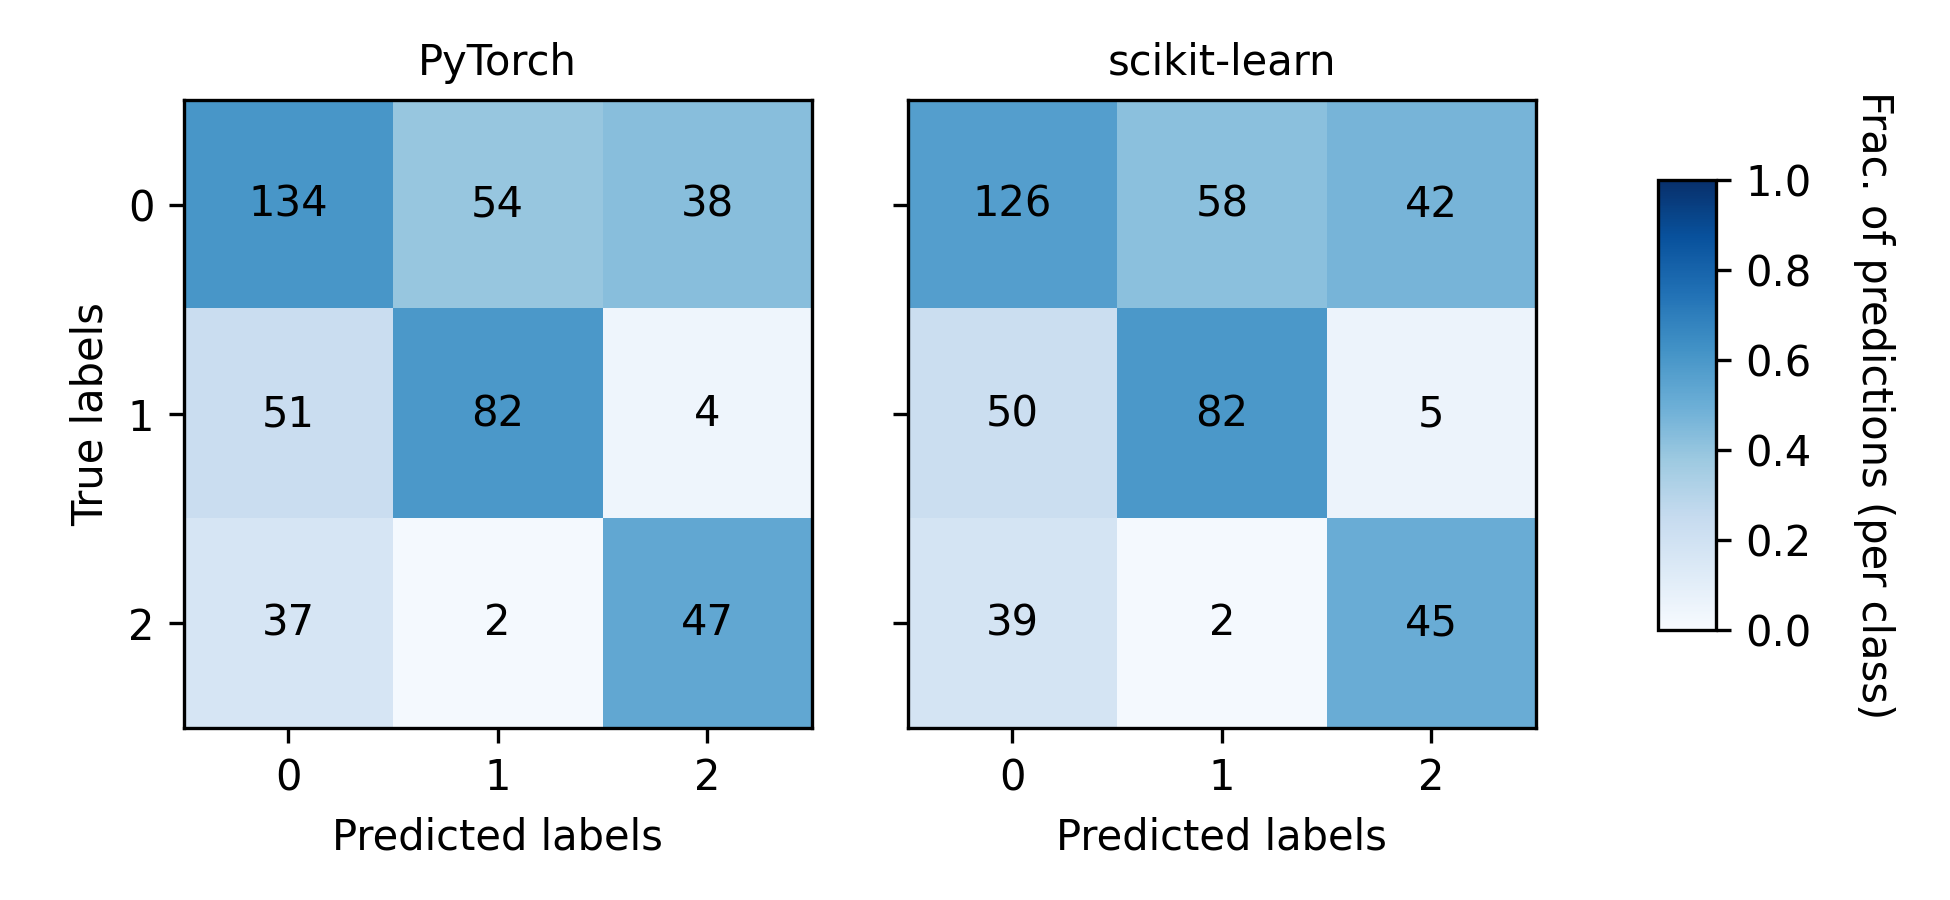
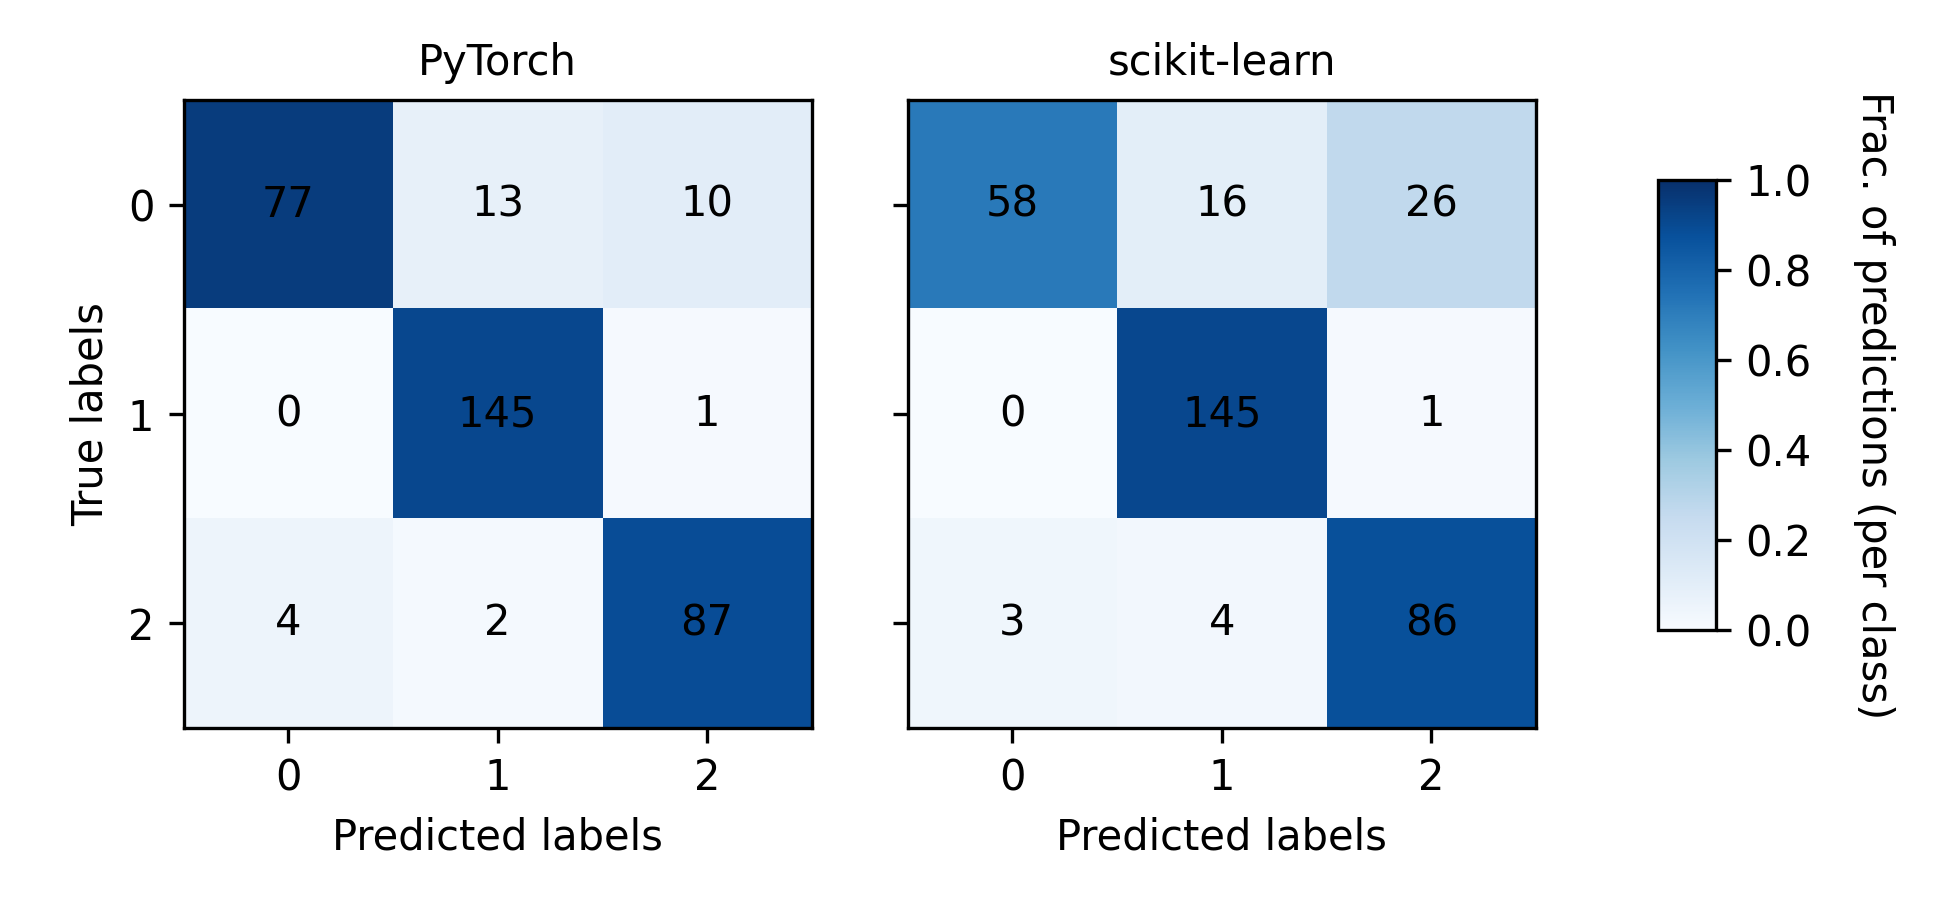
Fixed bug in the load_mlati function and refactored the classification demo

diff --git a/sdpy/data.py b/sdpy/data.py
@@ -75,24 +75,30 @@ def _estimate_recording_epoch(
 
 def load_mlati(
     filename,
-    x_binsize=0.05,
-    x_bincounts=(6, 0),
+    X_binsize=0.01,
+    X_bincounts=(20, 20),
     y_binsize=0.002,
     y_bincounts=(25, 45),
-    p_max=0.05,
-    fr_min=0.2,
-    spike_timestamps=None,
+    p_max=1e-3,
+    fr_min=1,
+    standardize_firing_rate=True,
+    add_null_events=True,
+    resample_spike_timestamps=False,
+    shuffle_labels=False,
+    random_seed=42,
     ):
     """
     """
+
+    #
+    np.random.seed(random_seed)
 
     # Load all the required datasets from the h5 file
     with h5py.File(filename, 'r') as stream:
         eye_position = np.array(stream['pose/filtered'])[:, 0]
         n_frames_recorded = len(eye_position)
         frame_timestamps = np.array(stream['frames/left/timestamps'])[:n_frames_recorded]
-        if spike_timestamps is None:
-            spike_timestamps = np.array(stream[f'spikes/timestamps'])
+        spike_timestamps = np.array(stream[f'spikes/timestamps'])
         spike_clusters = np.array(stream[f'spikes/clusters'])
         p_values = np.vstack([
             np.array(stream['zeta/saccade/nasal/p']),
@@ -101,27 +107,58 @@ def load_mlati(
         saccade_timestamps = np.array(stream['saccades/predicted/left/timestamps'])
         saccade_labels = np.array(stream['saccades/predicted/left/labels'])
 
-    # NOTE: Sometimes there are different numbers of frames and timestamps which will preclude this analysis
+    # For some experiments there are different numbers of frames and timestamps which will preclude further processing
     if frame_timestamps.size != eye_position.size:
-        raise Exception(f'Different number of frames ({eye_position.size}) and timestamps ({frame_timestamps.size})')
+        raise Exception(f'Different number of frames ({eye_position.size}) and frame timestamps ({frame_timestamps.size})')
+    
+    # Drop saccades without timestamps
+    invalid_saccades = np.isnan(saccade_timestamps[:, 0])
+    saccade_labels = np.delete(saccade_labels, invalid_saccades)
+    saccade_timestamps = np.delete(saccade_timestamps[:, 0], invalid_saccades)
+
+    # Resample spike timestamps using a uniform distribution (optional)
+    if resample_spike_timestamps == True:
+        spike_timestamps = np.around(np.random.uniform(
+            low=spike_timestamps.min(),
+            high=spike_timestamps.max(),
+            size=spike_timestamps.size
+        ), 3).astype(spike_timestamps.dtype)
+
+    # Mix in "null" events (optional)
+    if add_null_events:
+        n_null_events = round(np.mean([np.sum(saccade_labels == -1), np.sum(saccade_labels ==1)]))
+        null_event_timestamps = np.random.uniform(
+            low=saccade_timestamps.min(),
+            high=saccade_timestamps.max(),
+            size=n_null_events
+        )
+        event_timestamps = np.concatenate([
+            saccade_timestamps,
+            null_event_timestamps
+        ])
+    else:
+        event_timestamps = saccade_timestamps
+    
+    # Re-code temporal saccades as 2 (instead of -1)
+    z = np.concatenate([
+        saccade_labels,
+        np.zeros(n_null_events)
+    ])
+    z[z == -1] = 2
+
+    # Sort by time
+    index = np.argsort(event_timestamps)
+    event_timestamps = event_timestamps[index]
+    z = z[index]
+
+    # Shuffle saccade labels (optional)
+    if shuffle_labels:
+        np.random.shuffle(z)
 
     # Create the eye position time series
     t_raw = frame_timestamps[:-1] + (np.diff(frame_timestamps) / 2)
     v_raw = np.diff(eye_position)
     v_raw[np.isnan(v_raw)] = np.interp(t_raw[np.isnan(v_raw)], t_raw, v_raw) # Impute with interpolation
-
-    #
-    event_timestamps = np.concatenate([
-        saccade_timestamps[:, 0],
-        saccade_timestamps[:-1, 0] + (np.diff(saccade_timestamps[:, 0]) / 2)
-    ])
-
-    #
-    z = np.concatenate([
-        saccade_labels,
-        np.zeros(saccade_timestamps.size - 1)
-    ])
-    z[z == -1] = 2
 
     # Collect the eye velocity waveforms for saccades 
     y = list()
@@ -143,7 +180,7 @@ def load_mlati(
         cluster_indices = np.arange(len(unique_clusters))[p_values <= p_max]
         target_clusters = unique_clusters[cluster_indices] 
 
-    # Exclude units with too low of a firing rate (probabily partial units)
+    # Exclude units with too low of a firing rate
     if fr_min is not None:
         unit_indices = list()
         for i_unit, target_cluster in enumerate(target_clusters):
@@ -154,21 +191,23 @@ def load_mlati(
                 pad=5   
             )
             spike_indices = np.where(spike_clusters == target_cluster)[0]
-            n_bins = int((t2 - t1) / x_binsize)
+            n_bins = int((t2 - t1) / X_binsize)
             n_spikes, bin_edges_ = np.histogram(
                 spike_timestamps[spike_indices],
                 range=(t1, t2),
                 bins=n_bins
             )
-            fr = n_spikes.mean() / x_binsize
-            if fr < fr_min:
+            fr = n_spikes / X_binsize
+            
+            #
+            if fr.mean() < fr_min:
                 unit_indices.append(i_unit)
         target_clusters = np.delete(target_clusters, unit_indices)
 
     # Compute the edges of the time bins centered on the saccade
-    left_edges = np.arange(-1 * x_bincounts[0], x_bincounts[1], 1)
+    left_edges = np.arange(-1 * X_bincounts[0], X_bincounts[1], 1)
     right_edges = left_edges + 1
-    all_edges = np.concatenate([left_edges, [right_edges[-1],]])
+    all_edges = np.concatenate([left_edges, [right_edges[-1],]]) * X_binsize
 
     # Compute histograms and store in response matrix of shape N units x M saccades x P time bins
     n_units = len(target_clusters)
@@ -183,12 +222,12 @@ def load_mlati(
                 spike_timestamps[spike_indices],
                 bins=np.around(all_edges + event_timestamp, 3)
             )
-            fr = n_spikes / x_binsize
+            fr = n_spikes / X_binsize
             sample.append(fr)
         R.append(sample)
     R = np.array(R)
 
-    # Populate response matrix
+    # Populate X (unit major)
     X = list()
     n_units, n_events, n_bins = R.shape
     for i_event in range(n_events):
@@ -199,14 +238,18 @@ def load_mlati(
         X.append(sample)
     X = np.array(X)
 
-    # Sort by time
-    index = np.argsort(event_timestamps)
-    X = X[index, :]
-    y = y[index]
-    z = z[index]
-
-    # Normalize firing rate
-    X = MinMaxScaler().fit_transform(X)
+    # Standardize firing rate
+    if standardize_firing_rate:
+        n_samples = X.shape[0]
+        splits = np.split(X, n_units, axis=1)
+        splits_standardized = list()
+        for i_unit, split in enumerate(splits):
+            fr_mean = split[z == 0, :].mean()
+            fr_std = split[z == 0, :].std()
+            split_standardized = (split - fr_mean) / fr_std
+            split_standardized = split_standardized.reshape(n_samples, -1)
+            splits_standardized.append(split_standardized)
+        X = np.hstack(splits_standardized)
 
     # Remove samples with NaN values
     mask = np.vstack([
@@ -219,18 +262,3 @@ def load_mlati(
     z = np.delete(z, mask)
 
     return X, y, z
-
-def jitter_spike_timestamps(
-    filename,
-    j_min=-3,
-    j_max=3,
-    ):
-    """
-    Apply temporal jitter to spike timestamps
-    """
-
-    with h5py.File(filename, 'r') as stream:
-        spike_timestamps = np.array(stream[f'spikes/timestamps'])
-    spike_timestamps_jittered = spike_timestamps + np.random.uniform(low=j_min, high=j_max, size=spike_timestamps.size)
-
-    return spike_timestamps_jittered

diff --git a/sdpy/visuals.py b/sdpy/visuals.py
@@ -5,6 +5,7 @@ from sklearn.model_selection import train_test_split
 from sklearn.metrics import confusion_matrix
 from matplotlib import pyplot as plt
 import numpy as np
+from scipy.ndimage import gaussian_filter
 
 def plot_velocity_waveforms(filename=None, xyz=None, t=None, n_samples=30, figsize=(8, 2.5), xticks=(-100, -50, 0, 50, 100)):
     """
@@ -48,17 +49,78 @@ def plot_velocity_waveforms(filename=None, xyz=None, t=None, n_samples=30, figsi
 
     return fig, axs, xyz
 
-def visualize_mlp_regressor_performance(
-    data=None
+def visualize_X(
+    filename,
+    n_cols=30,
+    figsize=(9, 4),
+    cmap='Blues',
+    vrange=(-1, 8),
+    xyz=None
     ):
     """
     """
 
-    if type(data) == str:
-        X, y, z = load_mlati(data)
-    elif type(data) == tuple:
-        X, y, z = data
+    if xyz is None:
+        X, y, z = load_mlati(filename, X_bincounts=(20, 20))
+    else:
+        X, y, z = xyz
+    n_bins = 40
+    n_splits = X.shape[1] // n_bins
+    splits = np.split(X, n_splits, axis=1)
+    height_ratios = (
+        np.sum(z == 0),
+        np.sum(z == 1),
+        np.sum(z == 2)
+    )
+    if n_cols is None:
+        n_cols = n_splits
+    fig, axs = plt.subplots(
+        ncols=n_cols,
+        nrows=3,
+        gridspec_kw={'height_ratios': height_ratios}
+    )
+    for ax in axs.flatten():
+        ax.set_xticks([])
+        ax.set_yticks([])
+    index = np.argsort([
+        sp[z != 0].max(1).mean() for sp in splits
+    ])[::-1]
+    # index = np.random.choice(np.arange(len(splits)), size=n_splits, replace=False)
+    splits = [splits[i] for i in index]
+    for j, sp in enumerate(splits[:n_cols]):
+        for i, l in enumerate([0, 1, 2]):
+            m = sp[z == l, :]
+            m = gaussian_filter(m, 1.5)
+            if vrange is None:
+                vmin, vmax = m.min(), m.max()
+            else:
+                vmin, vmax = vrange
+            axs[i, j].pcolor(
+                m,
+                cmap=cmap,
+                vmin=vmin,
+                vmax=vmax
+            )
+    for ax in axs.flatten():
+        for sp in ('top', 'right', 'bottom', 'left'):
+            ax.spines[sp].set_visible(False)
+    axs[0, 0].set_ylabel('0', rotation=0, labelpad=15)
+    axs[1, 0].set_ylabel('1', rotation=0, labelpad=15)
+    axs[2, 0].set_ylabel('2', rotation=0, labelpad=15)
+    for i, ax in enumerate(range(axs.shape[1])):
+        axs[0, i].set_title(f'{i + 1}', fontsize=10)
+    fig.suptitle('Unit #', fontsize=10)
+    fig.supylabel('Label', fontsize=10)
+    fig.set_figwidth(figsize[0])
+    fig.set_figheight(figsize[1])
+    fig.tight_layout()
+    fig.subplots_adjust(hspace=0.1, wspace=0.1)
 
+    return fig, axs, (X, y, z)
+
+def visualize_y():
+    """
+    """
     return
 
 def visualize_mlp_classifier_performance(
@@ -118,4 +180,4 @@ def visualize_mlp_classifier_performance(
     cax.set_ylabel('Frac. of predictions (per class)', rotation=270, labelpad=20)
     cax.yaxis.set_label_position('right')  
 
-    return fig, axs, cm_pt, cm_sk
+    return fig, axs, clf_pt, clf_sk

diff --git a/sdpy/mlp.py b/sdpy/mlp.py
@@ -313,15 +313,3 @@ class PyTorchMLPClassifier(BaseEstimator, ClassifierMixin, _BasePyTorchModel):
         probability = np.array(logits.softmax(dim=1).detach())
 
         return probability
-
-def visualize_regressor_performance():
-    """
-    """
-
-    return
-
-def visualize_classifier_performance():
-    """
-    """
-
-    return

diff --git a/README.md b/README.md
@@ -2,20 +2,29 @@
 This is a repository that showcases a set of neural decoders implemented with PyTorch. The models are being used to decode eye movement kinematics (velocity) using neural data (single-unit spiking).
 
 # Data
-For these analyses I'm using a dataset I collected during my PhD which can be downloaded [here](https://datadryad.org/dataset/doi:10.5061/dryad.cnp5hqcfn). I call this dataset the "Mlati" dataset, which stands for medial-lateral axis tangential insertion. This refers to the geometry of how a high density linear electrode array (Neuropixels 1.0) was inserted into mouse brains to collect extracellular recordings of neural activity. Briefly, the data for each session in this dataset is stored in an h5 file with the filenameing convention "\<date>_\<animal>_store.hdf." I created the `data` module to interface with the Mlati dataset using these h5 files.
+For these analyses I'm using a dataset I collected during my PhD which can be downloaded [here](https://datadryad.org/dataset/doi:10.5061/dryad.cnp5hqcfn). I call this dataset the "Mlati" dataset, which stands for medial-lateral axis tangential insertion. This refers to the geometry of how a high density linear electrode array (Neuropixels 1.0) was inserted into the superior colliculus of mice to collect extracellular recordings of neural activity. Briefly, the data for each session in this dataset is stored in an h5 file with the filenameing convention "\<date>_\<animal>_store.hdf." I created the `data` module to interface with the Mlati dataset using these h5 files.
 
-## Loading training data
-Here is an example that demonstrates how to load the neural activity and eye velocity signals from a single experiment.
+### Loading the training data
+Here is an example that demonstrates how to load the neural activity and eye velocity signals for a single experiment.
 ```Python
 from sdpy import data
 X, y, z = data.load_mlati(<path to h5 file>)
 ```
 The `load_mlati` function extracts spiking activity and eye velocity signals from the h5 files and organizes them into these ML-ready variables:
-- `X` (N saccades x M features) - Numpy array where N is the number of saccades in the recording and M is the firing rate for each neuron in the recording relative to each saccade
-- `y` (N saccades x P features) - Numpy array where N is the number of saccades and P is the eye velocity for each saccade in a window of time around the saccade
-- `z` (N saccades x 1) - Numpy array where N is the number of saccades and each entry indicates the direction of the saccade (-1, 0, 1): -1 is a temporal movement, 1 is a nasal movement, and 0 is not a saccade
+- `X` (N saccades x M features) - NumPy array where N is the number of saccades in the recording and M is the firing rate for each neuron in a window of time around the onset of saccades
+- `y` (N saccades x P features) - NumPy array where N is the number of saccades and P is the eye velocity for each saccade in a window of time around the saccade
+- `z` (N saccades x 1) - NumPy array where N is the number of saccades and each entry indicates the direction of the saccade (0, 1, or 2): 0 is not a saccade (i.e., null event), 1 is a nasal saccade, and 2 is a temporal saccade
 
-## Target variables
+### Predictor variables
+The `X` variable returned by the `load_mlati` function contains neural activity in a window of time around the onset of saccades. The matrix is organized neuron-major/bin-minor such that each row is formed by the concatenation of multiple single-trial peri-stimulus time histograms (PETHs); therefore, the size of the second dimension of `X` is the number of time bins in the PETHs x the number of neurons in the recording. Here is a plot that visualizes the first 1200 columns of `X` (i.e., the first 30 neurons) grouped by unit along the x-axis and the type of saccade along the y-axis. 
+
+<p align="center">
+  <img src="docs/imgs/X.png" width="700" alt="Animated demo">
+</p>
+
+It seems like there are many units with a response to nasal and temporal saccades and some units exhibit a preference for one type of saccade. There is no response to the null events.
+
+### Target variables
 The `y` variable returned by the `load_mlati` function contains the velocity waveforms for each saccade in the training dataset, and the `z` variable indicates the type of saccade. These data will be used as the target variables for regression and classification problems, respectively. In the figure below, I'm showing 30 samples (and the mean) of each "type" of saccade: "Not a saccade," "Temporal" saccades, and "Nasal" saccades.
 
 <p align="center">
@@ -25,7 +34,7 @@ The `y` variable returned by the `load_mlati` function contains the velocity wav
 # Modeling
 Below are some examples showcases various implementations of machine learning models and techniques.
 
-## Multi-layer perceptron (for regression)
+### Multi-layer perceptron (for regression)
 I implemented a simple Multi-layer perceptron regressor and classifier using PyTorch. The class definition for each of these models follows the design and interfacing conventions used by Scikit-learn. For example, each model has a `fit` method which accepts arguments `X` (predictive factors) and `y` (target variable) and a `predict` method. Just a reminder, in my case I'm using neural activity (`X`) to predict eye movement kinematics (`y`).
 ```Python
 from sdpy import mlp, data
@@ -50,7 +59,7 @@ mse_pt = mean_squared_error(y_test, y_predicted) # ~0.51
 
 On my machine, the Scikit-learn implementation produces a mean squared error of ~0.52 and my implementation with PyTorch produces a mean squared error of ~0.51, so I think it's fair to say my implementation is acheiving a similar level of performance.
 
-## Multi-layer perceptron (for classification)
+### Multi-layer perceptron (for classification)
 I also implemented an MLP-based classifier analgous to Scikit-learn's `MLPClassifier` class.
 ```Python
 from sdpy import mlp, data
@@ -65,13 +74,13 @@ y_predicted = clf.predict(X_test)
 And again for my own sanity I compared the performance of my implementation against Scikit-learn's `MPLClassifier`.
 ```
 from sklearn.neural_network import MLPClassifier
-clf_sk = MLPClassifier(solver='adam', max_iter=1000) # Change hyperparameters to match my implementation for a fair comparison
+clf_sk = MLPClassifier(solver='adam', max_iter=1000) # Set hyperparameters to match my implementation for a fair comparison
 clf`_sk.fit(X_train, y_train)
 y_predicted_sk = clf_sk.predict(X_test)
-acc_sk = accuracy_score(y_test, y_predicted_sk) # ~0.6
-acc_pt = accuracy_score(y_test, y_predicted) # ~0.62
+acc_sk = accuracy_score(y_test, y_predicted_sk) # ~0.75
+acc_pt = accuracy_score(y_test, y_predicted) # ~0.83
 ```
-On my machine, the Scikit-learn implementation is 60% accuracte and my implementation with PyTorch is 62% accurate, so again fairly similar performance. Here is a visualization that shows the confusion matrices (CM) for each model. The CMs are normalized to the sum of the columns such that the color of each cell indicates what fraction of predictions for each class that were correct (along the diagonal) or incorrect (above or below the diagonal). The raw frequencies are shown in black text within each cell.
+On my machine, the Scikit-learn implementation is ~75% accuracte and my implementation with PyTorch is ~83% accurate, so again fairly similar performance. Here is a visualization that shows the confusion matrices (CM) for each model. The CMs are normalized to the sum of the columns such that the color of each cell indicates the fraction of predictions for each class that were correct (along the diagonal) or incorrect (above or below the diagonal). The raw frequencies are shown in black text within each cell.
 
 <p align="center">
   <img src="docs/imgs/mlp_classifier_performance.png" width="700" alt="Animated demo">
